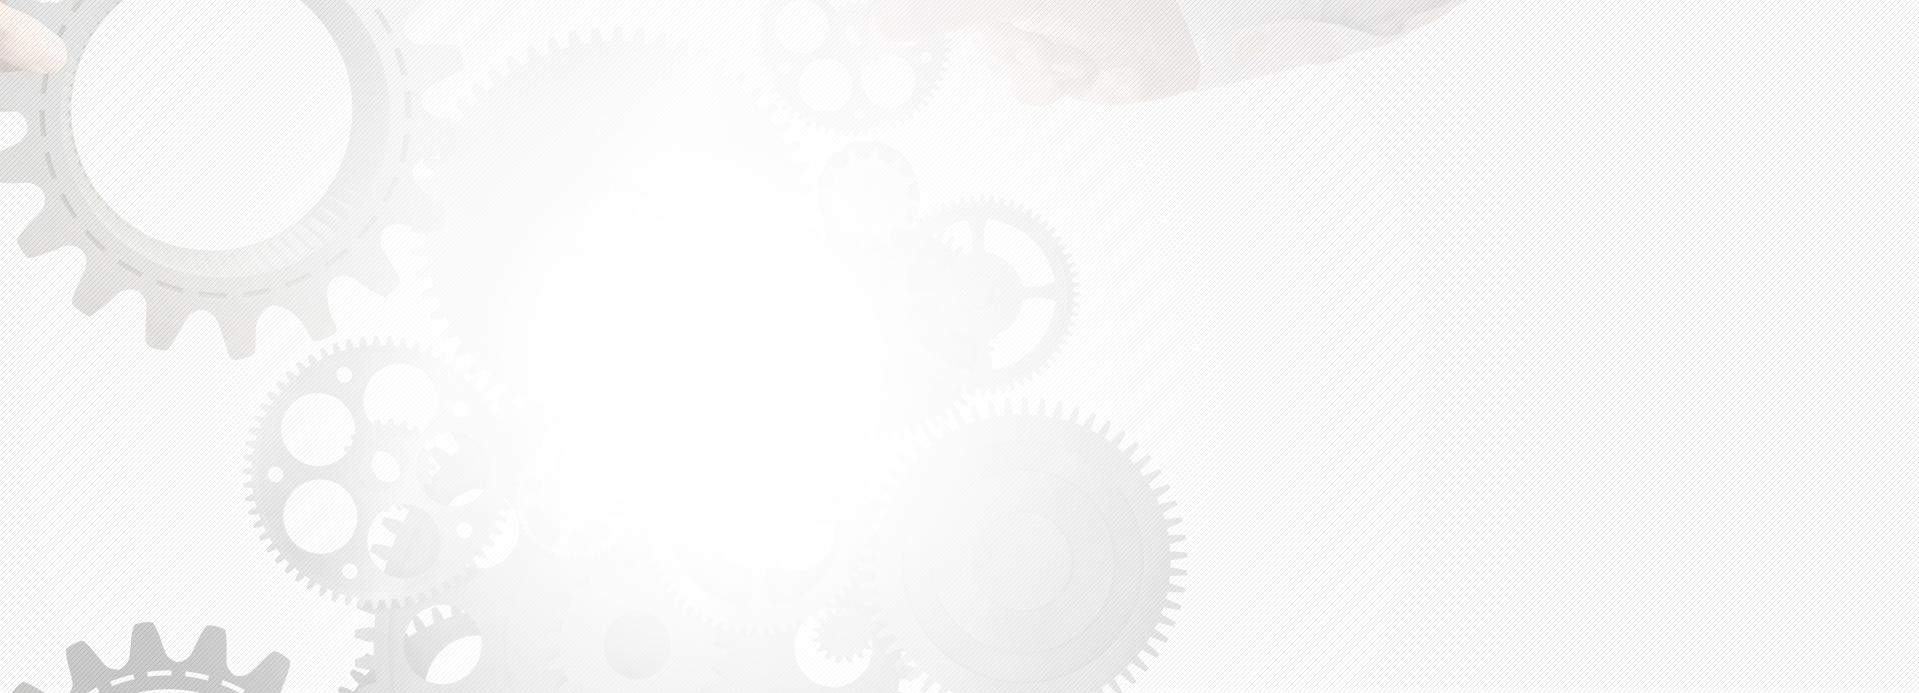
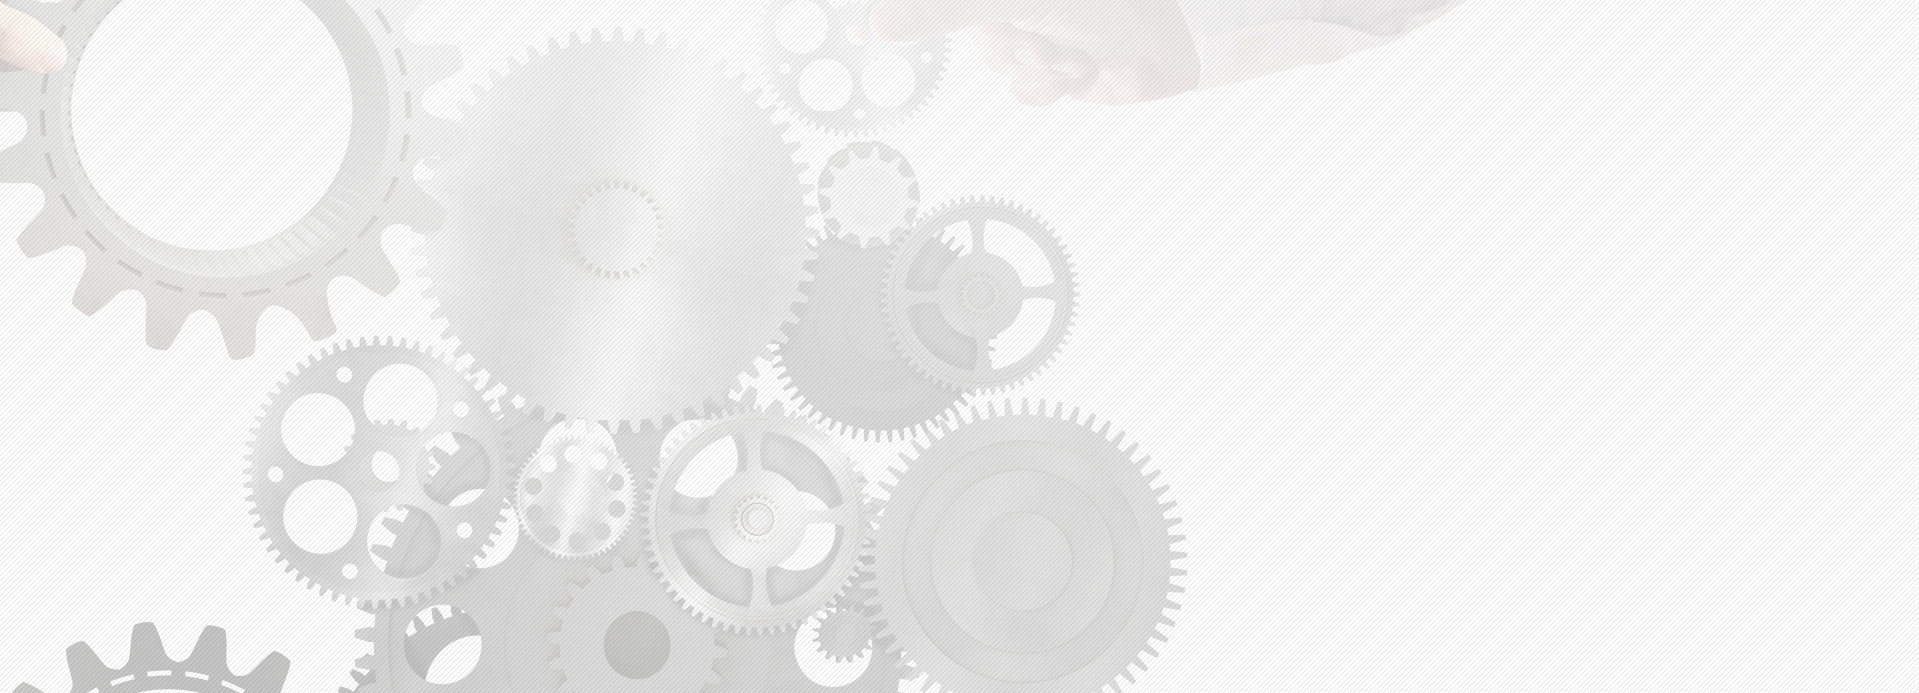
Project finished

Changed region(s): [[0.1537, 0.0606, 0.5842, 1.0]]

diff --git a/source/less/block/promo.less b/source/less/block/promo.less
@@ -43,6 +43,16 @@
     background-repeat: no-repeat;
   }
 
+  &__calendar::after {
+    position: absolute;
+    content: "";
+    bottom: 2px;
+    left: -123px;
+    width: 47px;
+    height: 3px;
+    background-color: #282828;
+  }
+
   &__date {
     position: relative;
     font-weight: 600;
@@ -128,6 +138,9 @@
 @media (min-width: 768px) {
   .promo {
     padding-bottom: 9px;
+    background-image: url("../img/bg-header@tablet.png");
+    background-repeat: no-repeat;
+    background-size: cover;
 
     &__logo-wrap {
       position: relative;
@@ -151,7 +164,16 @@
     }
 
     &__calendar::before {
-      left: -78px;
+      background-image: url("../img/city-mobile@tablet.png");
+      background-position: 50% 50%;
+      background-repeat: no-repeat;
+      left: -81px;
+    }
+
+    &__calendar::after {
+      bottom: 0;
+      left: -130px;
+      width: 65px;
     }
 
     &__date {
@@ -190,6 +212,7 @@
     padding: 0;
     background-image: url("../img/bg-header@desktop.png");
     background-repeat: no-repeat;
+    background-size: cover;
 
     &__wrap {
       position: relative;
@@ -219,7 +242,7 @@
     &__calendar {
       top: 50px;
       width: 312px;
-      height: 322px;
+      min-height: 297px;
       right: 28px;
     }
 
@@ -229,6 +252,12 @@
       width: 462px;
       left: -158px;
       height: 153px;
+    }
+
+    &__calendar::after {
+      bottom: 0;
+      left: -245px;
+      width: 95px;
     }
 
     &__date {

diff --git a/source/index.html b/source/index.html
@@ -4,7 +4,7 @@
     <meta charset="UTF-8">
     <meta name="viewport" content="width=device-width,initial-scale=1">
     <title>Акселератор такси Сочи</title>
-    <link rel="stylesheet" type="text/css" href="css/style-min.css">
+    <link rel="stylesheet" type="text/css" href="css/style.css">
     <link rel="preload" href="fonts/Roboto-Black.woff2" as="font">
     <link rel="preload" href="fonts/Roboto-Light.woff2" as="font">
     <link rel="preload" href="fonts/Roboto-Thin.woff2" as="font">
